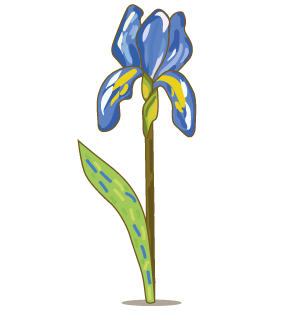
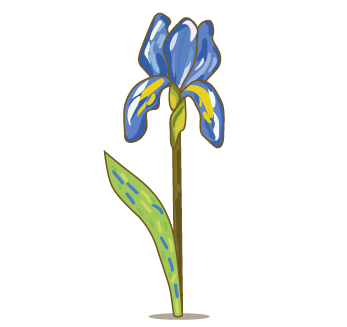
Adjustments mobile optimization

Changed region(s): [[0.2544, 0.0, 0.7067, 0.9839], [0.3958, 0.6656, 0.424, 0.6945]]

diff --git a/index.html b/index.html
@@ -23,7 +23,7 @@ Estructure general:
       property="og:description"
       content="Embark on a journey through the colorful and emotional world of Van Gogh's art. Explore his life story, his techniques, and the inspiration behind his masterpieces. Discover the passion, the pain, and the creativity behind his art."
     />
-    <meta property="og:image" content="https://opentechne.github.io/Discover-Vincent-VanGogh/assets/homepage/og-image.jpg" />
+    <meta property="og:image" content="https://opentechne.github.io/Discover-Vincent-VanGogh/assets/homepage/og-image.webp" />
     <meta name="twitter:card" content="summary_large_image" />
     <meta property="twitter:domain" content="https://opentechne.github.io/Discover-Vincent-VanGogh/" />
     <meta property="twitter:url" content="https://opentechne.github.io/Discover-Vincent-VanGogh/" />
@@ -32,7 +32,7 @@ Estructure general:
       name="twitter:description"
       content="Embark on a journey through the colorful and emotional world of Van Gogh's art. Explore his life story, his techniques, and the inspiration behind his masterpieces. Discover the passion, the pain, and the creativity behind his art."
     />
-    <meta name="twitter:image" content="https://opentechne.github.io/Discover-Vincent-VanGogh/assets/homepage/og-image.jpg" />
+    <meta name="twitter:image" content="https://opentechne.github.io/Discover-Vincent-VanGogh/assets/homepage/og-image.webp" />
     <link rel="preconnect" href="https://fonts.googleapis.com" />
     <link rel="preconnect" href="https://fonts.gstatic.com" crossorigin />
     <link href="https://fonts.googleapis.com/css2?family=Playfair+Display:wght@400;500;800;900&display=swap" rel="stylesheet" />

diff --git a/css/discover.css b/css/discover.css
@@ -70,15 +70,11 @@ svg {
 body {
   min-height: 100vh;
   font-size: 100%;
-  max-width: 98%;
   margin: auto;
   font-family: "Playfair Display", serif;
 }
 
-/* ---- HEADER empieza aquí ---- */
-/* Descripción: Estilos para el encabezado del sitio web. */
-
-/* Estilos para el contenedor del encabezado */
+/* HEADER */
 .Header {
   max-width: 95%;
   margin: auto;
@@ -90,7 +86,6 @@ body {
   border-bottom: 0.1563rem solid #ffd147;
 }
 /* HEADER LEFT */
-/* Estilos para el lado izquierdo del encabezado */
 .Header-left {
   width: calc(3.5rem + 0.0625rem);
   height: 3.5rem;
@@ -249,7 +244,7 @@ body {
   justify-content: center;
   align-items: center;
 
-  padding: 1rem;
+  padding: .5rem;
   height: 90vh;
 }
 
@@ -525,7 +520,7 @@ body {
     text-align: center;
     width: 100%;
     font-size: 1rem;
-    padding: 1.2rem;
+    padding: 1rem;
   }
 }
 @media screen and (max-width: 570px) {

diff --git a/css/index.css b/css/index.css
@@ -308,6 +308,7 @@ body {
   bottom: 50%;
   border-radius: 1.5rem;
   transform: translate(-50%, 50%) scale(.97);
+  filter: drop-shadow(0.5px 0.5px 1px #5b4505);
 }
 
 /* Estilos para el primer contenedor con la imagen de "Starry Night" */

diff --git a/css/vicentslife.css b/css/vicentslife.css
@@ -341,6 +341,7 @@ body {
   border-radius: 1.5rem;
   transform: translate(-50%, 50%) scale(0.96);
   transition: all ease 0.8s;
+  filter: drop-shadow(0.5px 0.5px 1px #5b4505);
 }
 .Column-h2 {
   opacity: 0;

diff --git a/css/death.css b/css/death.css
@@ -294,6 +294,7 @@ body {
 
   border-radius: 1.5rem;
   transform: translate(-50%, 50%) scale(.95);
+  filter: drop-shadow(0.5px 0.5px 1px #5b4505);
 }
 .Image {
   transform: translateY(-30%);

diff --git a/css/journeys.css b/css/journeys.css
@@ -290,6 +290,7 @@ body {
 
   border-radius: 1.5rem;
   transform: translate(-50%, 50%) scale(.95);
+  filter: drop-shadow(0.5px 0.5px 1px #5b4505);
 }
 .Image {
   transform: translateY(-50%);

diff --git a/css/earlylife.css b/css/earlylife.css
@@ -290,6 +290,7 @@ body {
 
   border-radius: 1.5rem;
   transform: translate(-50%, 50%) scale(0.95);
+  filter: drop-shadow(0.5px 0.5px 1px #5b4505);
 }
 .Title-container {
   display: flex;

diff --git a/css/career.css b/css/career.css
@@ -292,6 +292,7 @@ body {
 
   border-radius: 1.5rem;
   transform: translate(-50%, 50%) scale(.95);
+  filter: drop-shadow(0.5px 0.5px 1px #5b4505);
 }
 .Title-container {
   display: flex;

diff --git a/css/illness.css b/css/illness.css
@@ -295,6 +295,7 @@ body {
   bottom: 50%;
 
   border-radius: 1.5rem;
+  filter: drop-shadow(0.5px 0.5px 1px #5b4505);
   transform: translate(-50%, 50%) scale(.95);
 }
 .Image {

diff --git a/css/contact.css b/css/contact.css
@@ -493,4 +493,7 @@ body {
   .Form-textarea {
     padding: 0.75rem 1.5rem;
   }
+  .Irises-container{
+    width: 15rem;
+  }
 }
